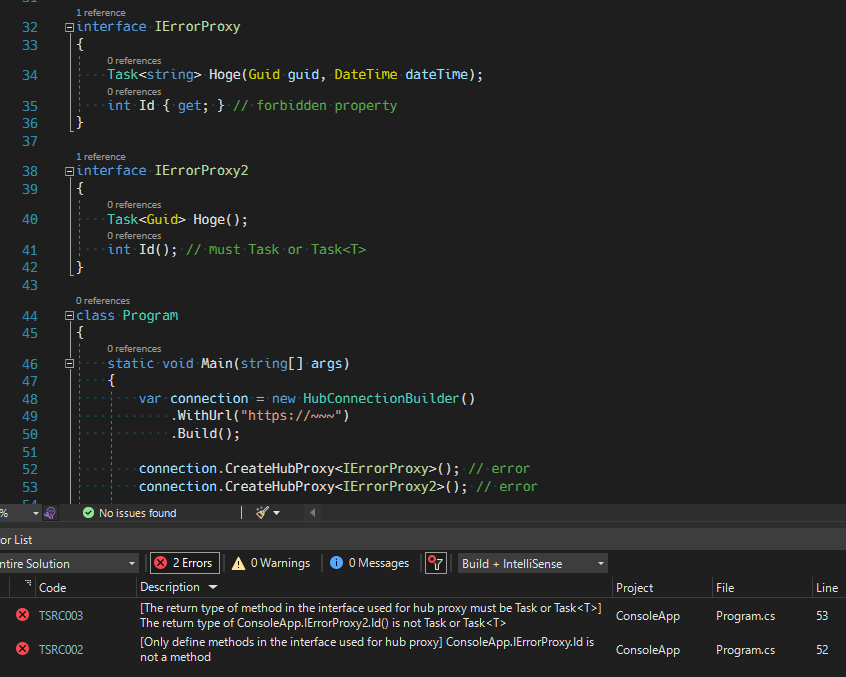
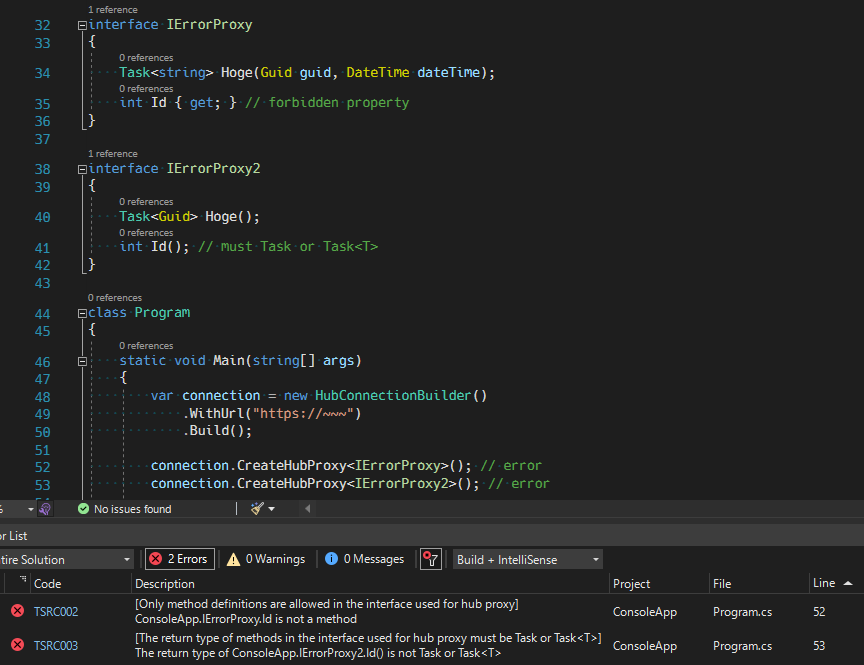
update readme

Changed region(s): [[0.0, 0.0, 1.0, 0.9925], [0.0307, 0.1504, 0.0615, 0.2105]]

diff --git a/README.md b/README.md
@@ -33,7 +33,7 @@ We also have to determine the return type manually.
 Moreover, registering a client function called from the server also requires a string, and we must set the parameter types manually.
 
 ```cs
-// pure SignalR Client
+// Pure SignalR Client
 
 // Specify the hub method to invoke using string.
 await connection.InvokeAsync("HubMethod1");
@@ -257,8 +257,8 @@ class Client : IReceiver, IHubConnectionObserver, IDisposable
 This library has some restrictions, including those that come from server-side implementations.
 
 - Type argument of the `CreateHubProxy/Register` method must be an interface.
-- Only methods must be defined in the interface used for `CreateHubProxy/Register`.
-  - It is forbidden to define properties.
+- Only method definitions are allowed in the interface used for `CreateHubProxy/Register`.
+  - It is forbidden to define properties and events.
 - The return type of the method in the interface used for `CreateHubProxy` must be `Task` or `Task<T>`.
 - The return type of the method in the interface used for `Register` must be `Task`.
 
@@ -266,7 +266,7 @@ It is complicated for humans to comply with these restrictions properly.
 So, this library looks for parts that do not follow the restriction and report detailed errors at compile-time. 
 Therefore, no run-time error occurs. 
 
-![compile-time-error](https://user-images.githubusercontent.com/27144255/153356331-3b4d9af6-b289-457c-8f45-2a4fcb8bb049.png)
+![compile-time-error](https://user-images.githubusercontent.com/27144255/155505022-0a13bf1b-643c-472c-882e-8508e52c2b63.png)
 
 # Generated source code
 TypedSignalR.Client checks the type argument of a methods `CreateHubProxy` and `Register` and generates source code.
